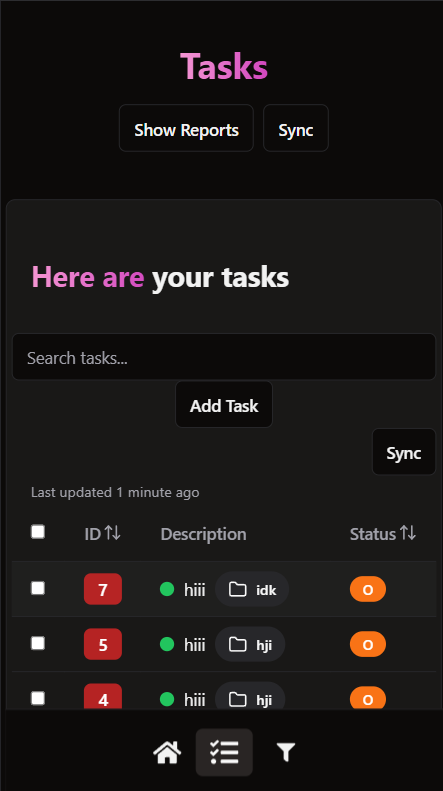
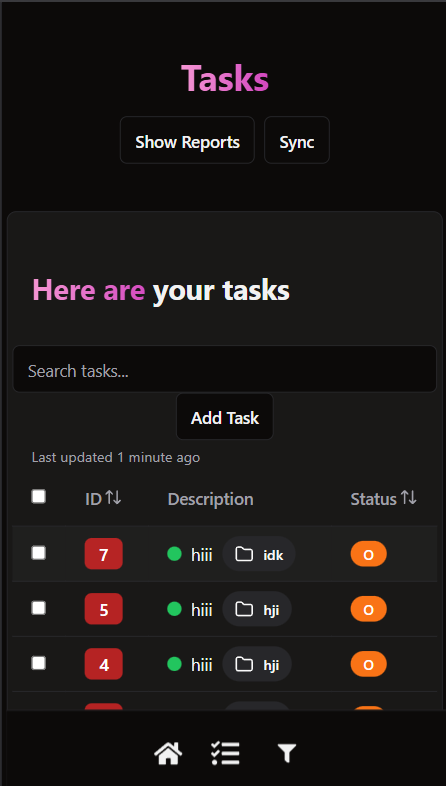
patch: fix broken tests and sync button

diff --git a/frontend/src/components/utils/__tests__/TaskAutoSync.test.tsx b/frontend/src/components/utils/__tests__/TaskAutoSync.test.tsx
@@ -7,7 +7,6 @@ jest.mock('../../HomeComponents/Tasks/Tasks', () => ({
   syncTasksWithTwAndDb: jest.fn(),
 }));
 
-const mockConsoleLog = jest.spyOn(console, 'log').mockImplementation();
 const mockConsoleError = jest.spyOn(console, 'error').mockImplementation();
 
 describe('useTaskAutoSync', () => {
@@ -57,9 +56,6 @@ describe('useTaskAutoSync', () => {
       jest.advanceTimersByTime(1000);
     });
 
-    expect(mockConsoleLog).toHaveBeenCalledWith(
-      'Auto-sync: Triggering periodic sync...'
-    );
     expect(mockSyncTasksWithTwAndDb).toHaveBeenCalledTimes(1);
   });
 
@@ -81,9 +77,6 @@ describe('useTaskAutoSync', () => {
       await result.current.handleSync();
     });
 
-    expect(mockConsoleLog).toHaveBeenCalledWith(
-      'Auto-sync: Sync already in progress, skipping.'
-    );
     expect(mockSyncTasksWithTwAndDb).not.toHaveBeenCalled();
     expect(mockSetIsLoading).not.toHaveBeenCalled();
   });

diff --git a/frontend/src/components/__tests__/HomePage.test.tsx b/frontend/src/components/__tests__/HomePage.test.tsx
@@ -69,7 +69,6 @@ jest.mock('driver.js', () => {
 
 beforeEach(() => {
   mockSocket = {
-    onopen: null,
     onclose: null,
     onmessage: null,
     onerror: null,
@@ -432,16 +431,6 @@ describe('HomePage', () => {
 
       expect(mockToastSuccess).not.toHaveBeenCalled();
       expect(mockToastError).not.toHaveBeenCalled();
-    });
-
-    it('triggers WebSocket onopen without errors', async () => {
-      render(<HomePage />);
-
-      await waitFor(() => {
-        expect((global as any).WebSocket).toHaveBeenCalled();
-      });
-
-      expect(() => mockSocket.onopen()).not.toThrow();
     });
 
     it('handles WebSocket error event without crashing', async () => {

diff --git a/frontend/src/components/HomeComponents/Tasks/Tasks.tsx b/frontend/src/components/HomeComponents/Tasks/Tasks.tsx
@@ -1083,7 +1083,7 @@ export const Tasks = (
                         allTasks={tasks}
                       />
                     </div>
-                    <div className="flex flex-col items-end gap-2">
+                    <div className="hidden lg:flex flex-col items-end gap-2">
                       <Button
                         id="sync-task"
                         variant="outline"
